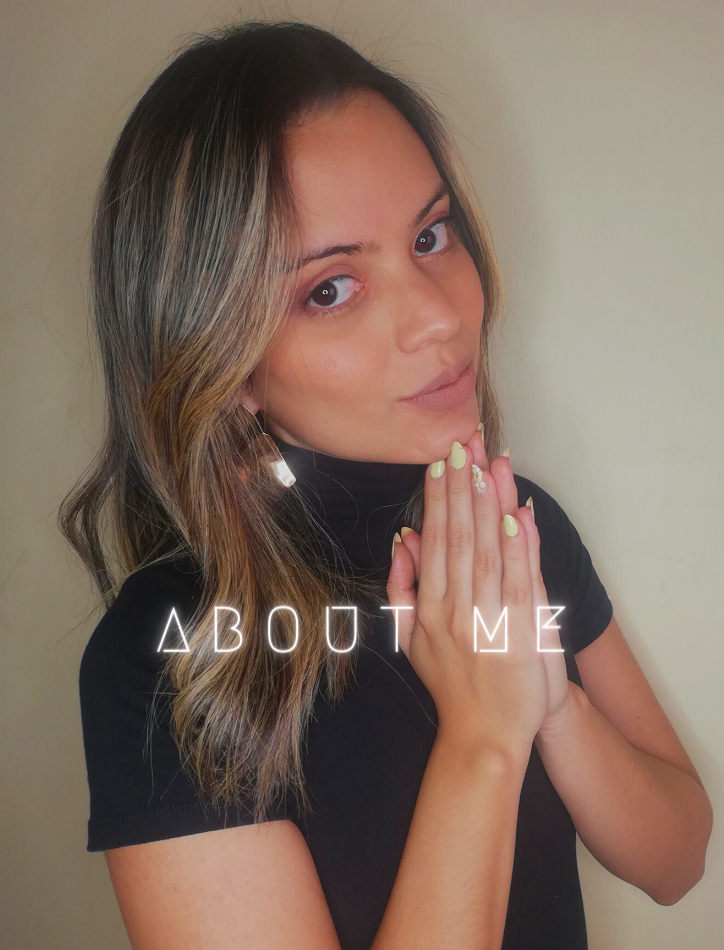
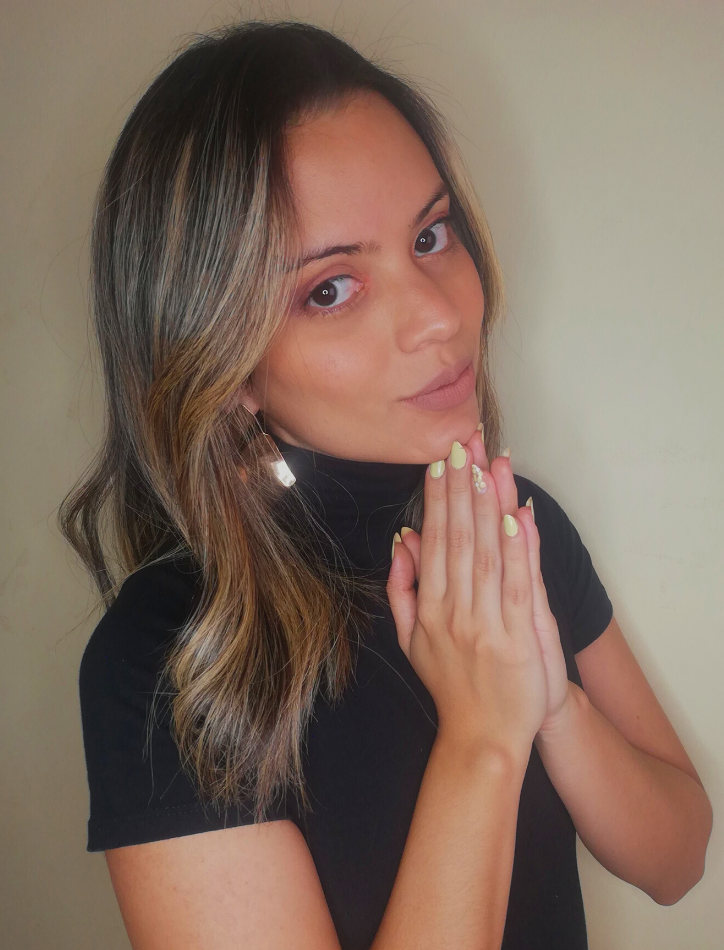
Sobre Mí

Changed region(s): [[0.2127, 0.6105, 0.5773, 0.7021], [0.6381, 0.6105, 0.7901, 0.7021]]

diff --git a/src/Components/SobreMi/SobreMi.css b/src/Components/SobreMi/SobreMi.css
@@ -40,6 +40,7 @@
   overflow: hidden !important;
 }
 
+.img0,
 .img1,
 .img2,
 .img3,
@@ -48,6 +49,13 @@
 .img6 {
   height: 100% !important;
   width: 100% !important;
+}
+
+.img0 {
+  background-image: url(../../img/Slider/100%/0.png) !important;
+  background-repeat: no-repeat;
+  background-size: cover;
+  background-position: center;
 }
 
 .img1 {

diff --git a/src/Components/SobreMi/SobreMi.js b/src/Components/SobreMi/SobreMi.js
@@ -28,6 +28,9 @@ export default class SobreMi extends Component {
           className="mySwiper1"
         >
           <SwiperSlide>
+            <div className="img0"></div>
+          </SwiperSlide>
+          <SwiperSlide>
             <div className="img1"></div>
           </SwiperSlide>
           <SwiperSlide>

diff --git a/src/Components/Formacion/Academia/Componente/Academia.css b/src/Components/Formacion/Academia/Componente/Academia.css
@@ -611,10 +611,11 @@ button h3 {
     justify-content: flex-start;
   }
   .Sena, .Udemy, .Politecnico, .SheWorks{
-    width: 70%;
+    width: 90%;
     height: 30%;
+    border-radius: 0px;
   }
-  .Sena, .Politecnico{
+  .Sena, .Politecnico, .Udemy{
     margin-bottom: 30px;
   }
   .Modulo1 h1{
